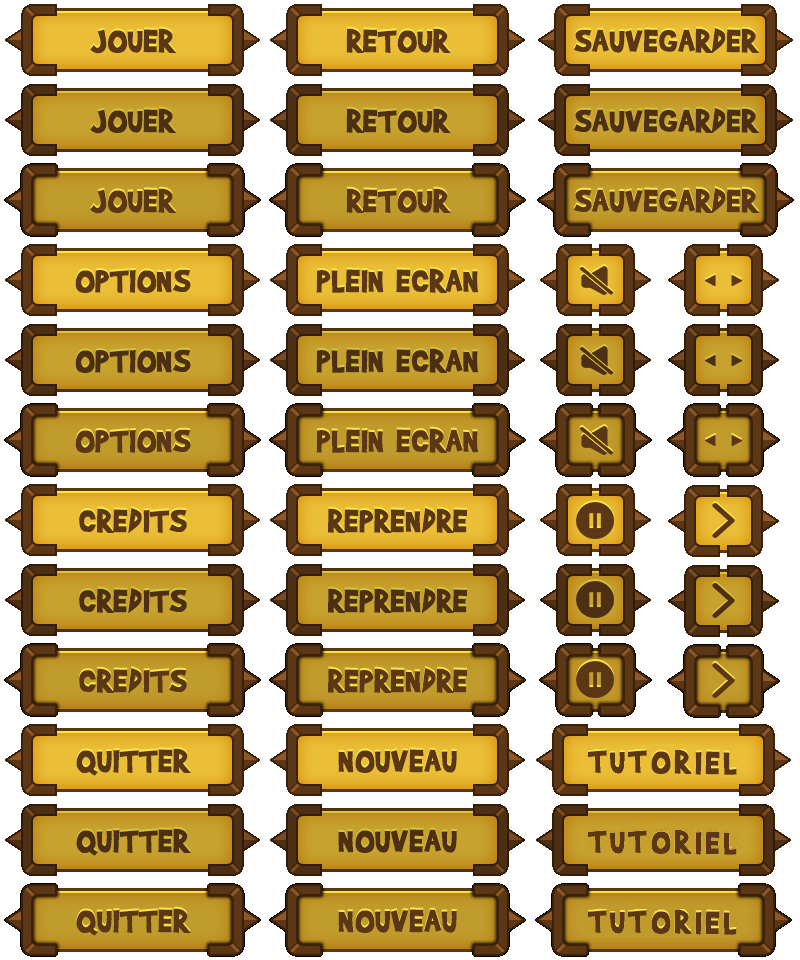
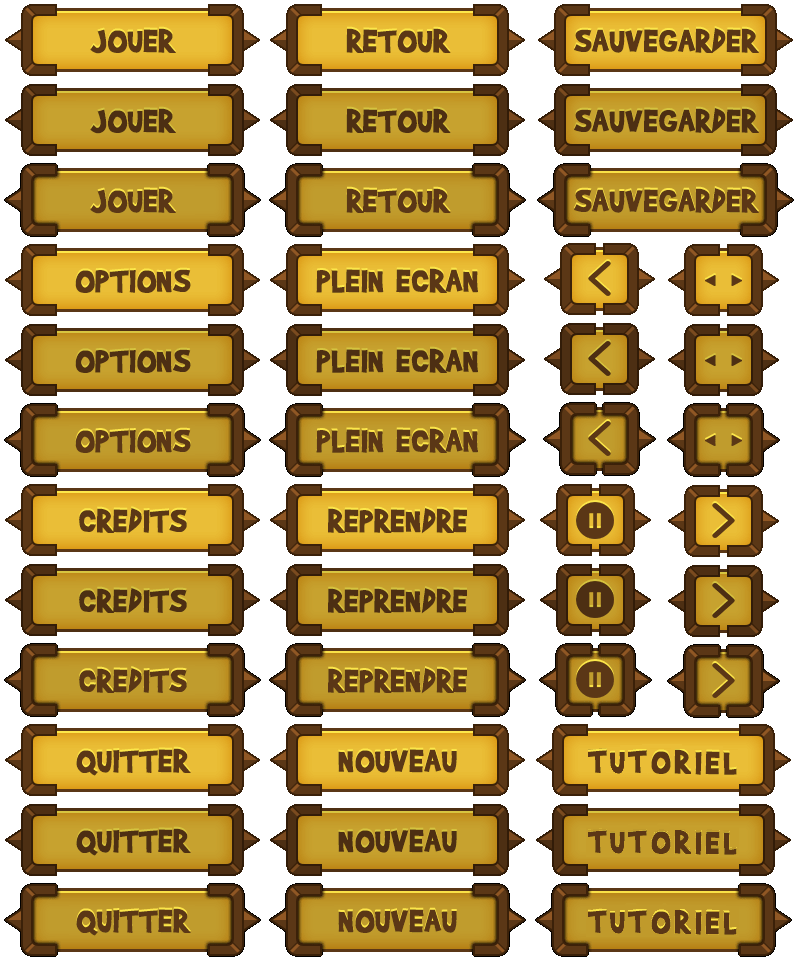
added second button to rotate the hero selection in the other direction

Changed region(s): [[0.6562, 0.25, 0.8125, 0.5]]

diff --git a/src/init_choose_heroes.c b/src/init_choose_heroes.c
@@ -44,21 +44,25 @@ static void init_buttons(window_t *win)
     init_button(&win->scene[HEROES].button[0], get_pos_float(pos_window.x + 40,
     (size_window.y / 2)), get_pos_float(size.x / 2, size.y),
     win->texture_button);
+    set_next_buttons(&win->scene[HEROES].button[1], win->rect_buttons, FLECHE);
+    init_button(&win->scene[HEROES].button[1], get_pos_float(pos_window.x - 200,
+    (size_window.y / 2)), get_pos_float(size.x / 2, size.y),
+    win->texture_button);
     pos_window.x = (size_window.x - size.x - 10);
     pos_window.y = (size_window.y - (size.y + 50) * 2);
-    set_next_buttons(&win->scene[HEROES].button[1], win->rect_buttons, JOUER);
-    init_button(&win->scene[HEROES].button[1], pos_window, size,
+    set_next_buttons(&win->scene[HEROES].button[2], win->rect_buttons, JOUER);
+    init_button(&win->scene[HEROES].button[2], pos_window, size,
     win->texture_button);
     pos_window.y += size.y + 10;
-    set_next_buttons(&win->scene[HEROES].button[2], win->rect_buttons,
+    set_next_buttons(&win->scene[HEROES].button[3], win->rect_buttons,
     QUITTER);
-    init_button(&win->scene[HEROES].button[2], pos_window, size,
+    init_button(&win->scene[HEROES].button[3], pos_window, size,
     win->texture_button);
 }
 
 window_t *init_choose_heroes(window_t *win)
 {
-    set_struct(win, 3, 7, 2);
+    set_struct(win, 4, 7, 2);
     init_texts(win);
     init_buttons(win);
     init_sprite(&win->scene[HEROES].sprite[0],
@@ -75,8 +79,9 @@ window_t *init_choose_heroes(window_t *win)
     init_sprite(&win->scene[HEROES].sprite[1], "ressources/menu.png", get_pos_float(0, 0));
     win->scene[HEROES].sprite[1].depth = -1;
     win->scene[HEROES].button[0].callback = &choose_hero;
-    win->scene[HEROES].button[1].callback = &play_game;
-    win->scene[HEROES].button[2].callback = &main_menu;
+    win->scene[HEROES].button[1].callback = &choose_hero_reverse;
+    win->scene[HEROES].button[2].callback = &play_game;
+    win->scene[HEROES].button[3].callback = &main_menu;
     choose_hex(win);
     return (win);
 }

diff --git a/src/callback_heroes.c b/src/callback_heroes.c
@@ -26,3 +26,22 @@ void choose_hero(window_t *win)
     if (actual == 5)
         actual = 0;
 }
+
+void choose_hero_reverse(window_t *win)
+{
+    static int actual = 1;
+
+    if (actual == 0)
+        choose_hex(win);
+    if (actual == 1)
+        choose_linail(win);
+    if (actual == 2)
+        choose_ouzo(win);
+    if (actual == 3)
+        choose_prime(win);
+    if (actual == 4)
+        choose_wyvera(win);
+    actual--;
+    if (actual < 0)
+        actual = 5;
+}

diff --git a/include/rpg.h b/include/rpg.h
@@ -38,6 +38,7 @@ enum type_button {
     PAUSE,
     TUTORIEL,
     FLECHE,
+    FLECHE_REVERSE,
 };
 
 enum page {
@@ -270,6 +271,7 @@ void play_game(window_t *win);
 void options(window_t *win);
 void quit(window_t *win);
 void choose_hero(window_t *win);
+void choose_hero_reverse(window_t *win);
 void unpause_game(window_t *win);
 void basic_attack(window_t *win);
 void special_attack(window_t *win);
